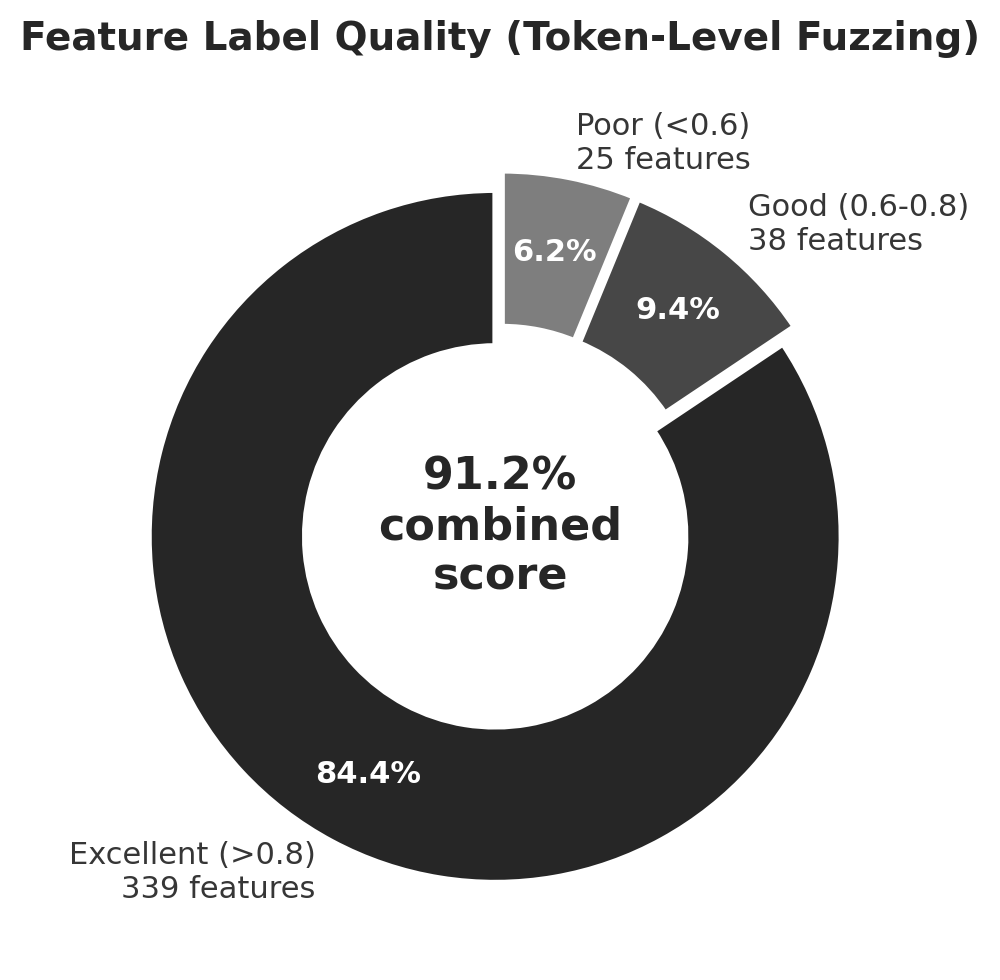
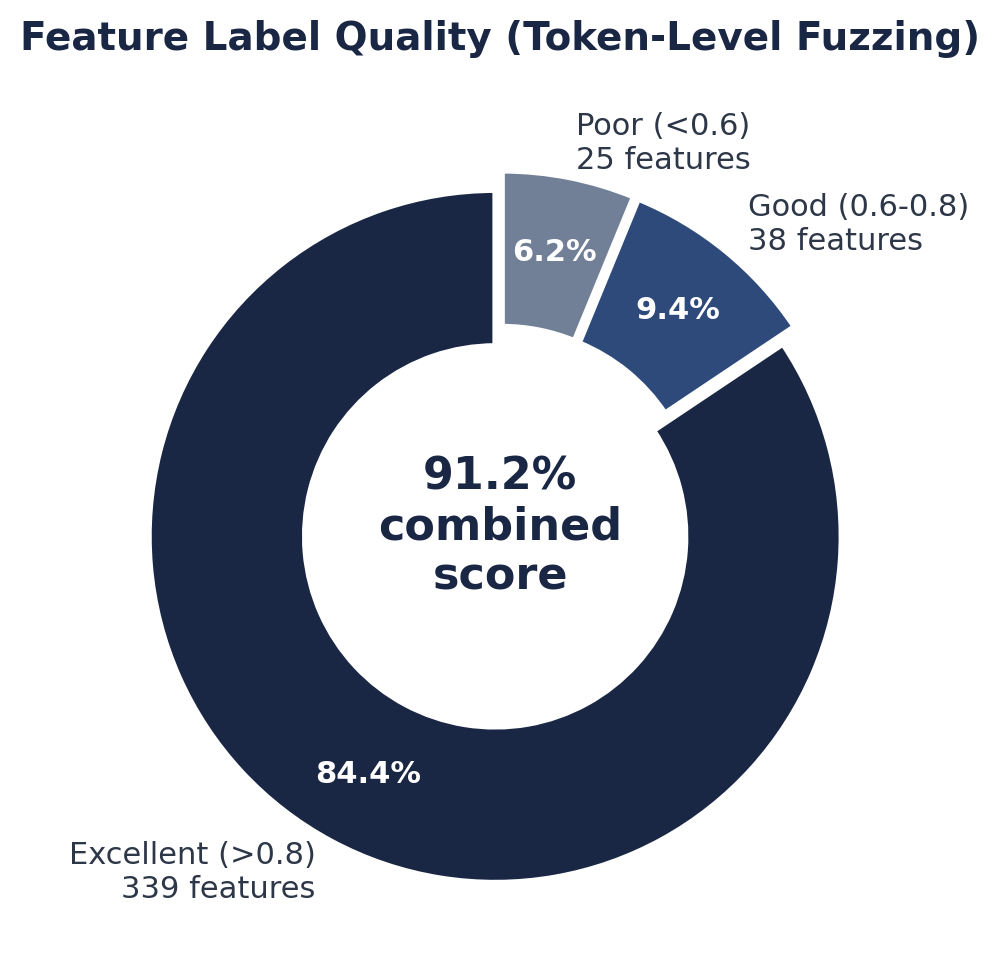
updated paper following LNCS

Changed region(s): [[0.155, 0.1837, 0.837, 0.9184], [0.0, 0.0, 0.992, 0.0612], [0.372, 0.4592, 0.62, 0.6122]]

diff --git a/paper/render_svgs.py b/paper/render_svgs.py
@@ -29,27 +29,28 @@ SVG_NAMES = [
 # Applied in order.  For SVG gradients where two original colours map to the
 # same gray, we handle gradients first with context-aware replacement.
 
-# Gradient-level mapping (id → {original_color: gray_color})
+# Gradient-level mapping (id → {original_color: bw_color})
 GRADIENT_MAP = {
-    "grad-primary": {"#2d4a7a": "#444444", "#1a2744": "#222222"},
-    "grad-accent": {"#ff7b5f": "#888888", "#e8563a": "#666666"},
-    "grad-teal": {"#38b2ac": "#aaaaaa", "#2c7a7b": "#888888"},
-    "grad-topbar": {"#1a2744": "#222222", "#e8563a": "#666666"},
+    "grad-primary": {"#2d4a7a": "#333333", "#1a2744": "#000000"},
+    "grad-accent": {"#ff7b5f": "#999999", "#e8563a": "#666666"},
+    "grad-teal": {"#38b2ac": "#cccccc", "#2c7a7b": "#999999"},
+    "grad-topbar": {"#1a2744": "#000000", "#e8563a": "#666666"},
 }
 
 # Global (non-gradient) replacements — applied after gradient replacement
 # so that gradient stop-colors are already handled.
+# High-contrast BW: dark colors → black, accent → mid-grey, light → near-white.
 GLOBAL_MAP = [
-    ("#2d4a7a", "#444444"),
-    ("#1a2744", "#222222"),
-    ("#ff7b5f", "#888888"),
+    ("#2d4a7a", "#333333"),
+    ("#1a2744", "#000000"),
+    ("#ff7b5f", "#999999"),
     ("#e8563a", "#666666"),
-    ("#38b2ac", "#aaaaaa"),
-    ("#2c7a7b", "#888888"),
-    ("#cbd5e0", "#cccccc"),
-    ("#718096", "#777777"),
-    ("#2d3748", "#333333"),
-    ("#e2e8f0", "#cccccc"),
+    ("#38b2ac", "#cccccc"),
+    ("#2c7a7b", "#999999"),
+    ("#cbd5e0", "#e0e0e0"),
+    ("#718096", "#666666"),
+    ("#2d3748", "#222222"),
+    ("#e2e8f0", "#e0e0e0"),
 ]
 
 # Text-contrast fixes: on light-gray (teal) backgrounds, swap white text to dark.
